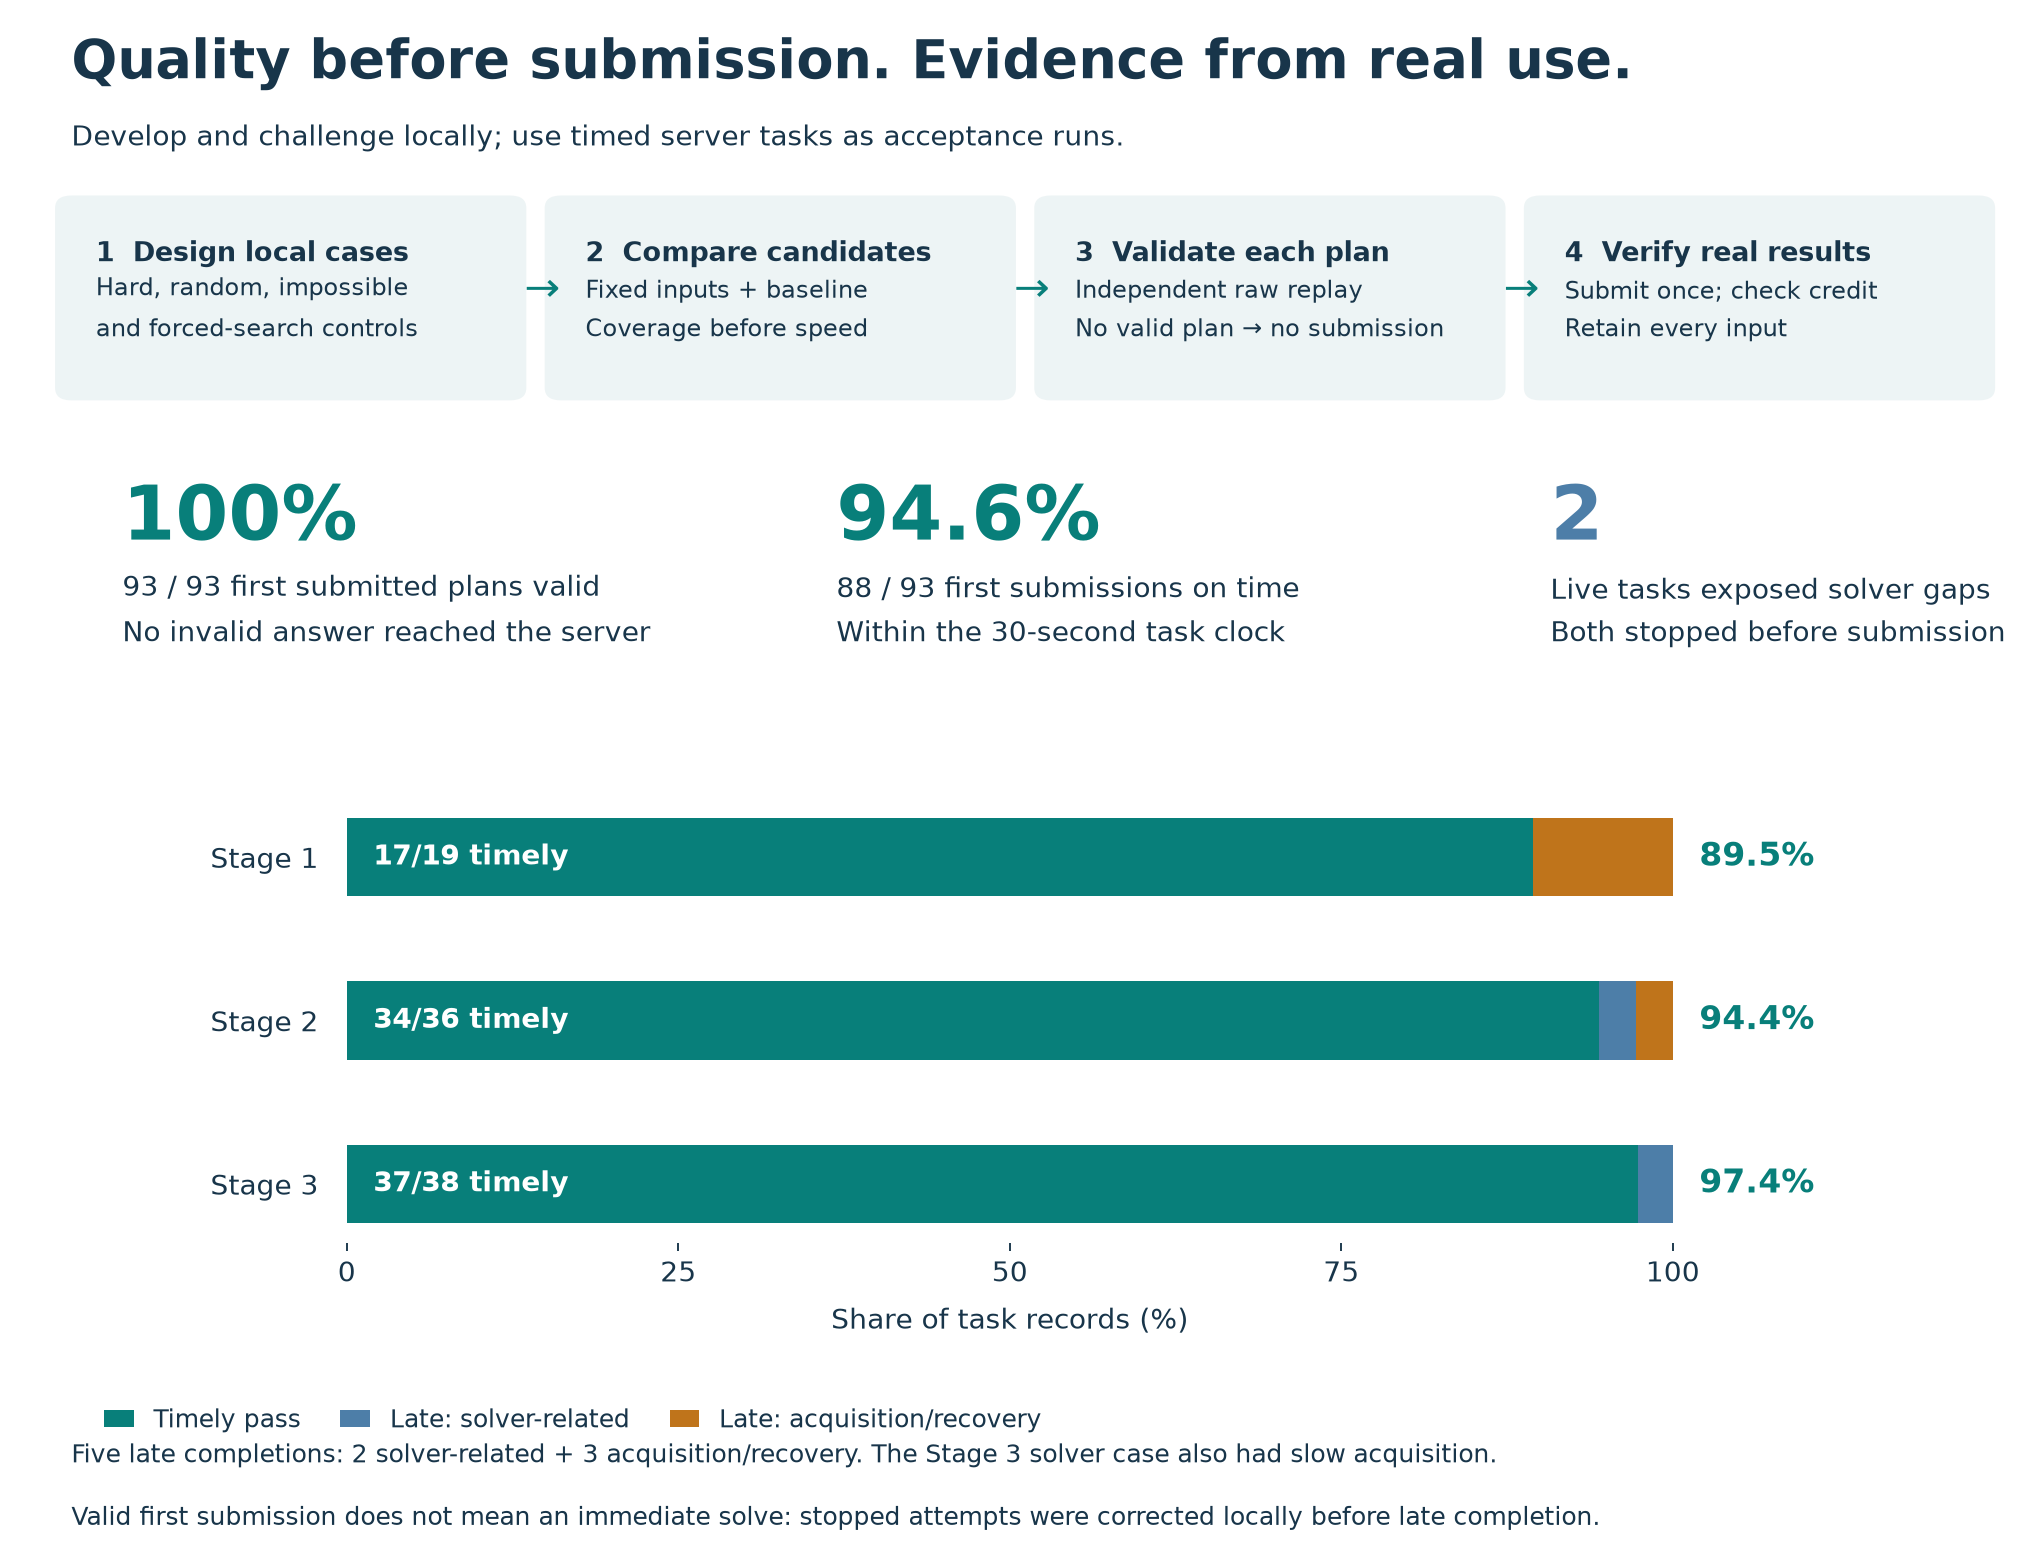
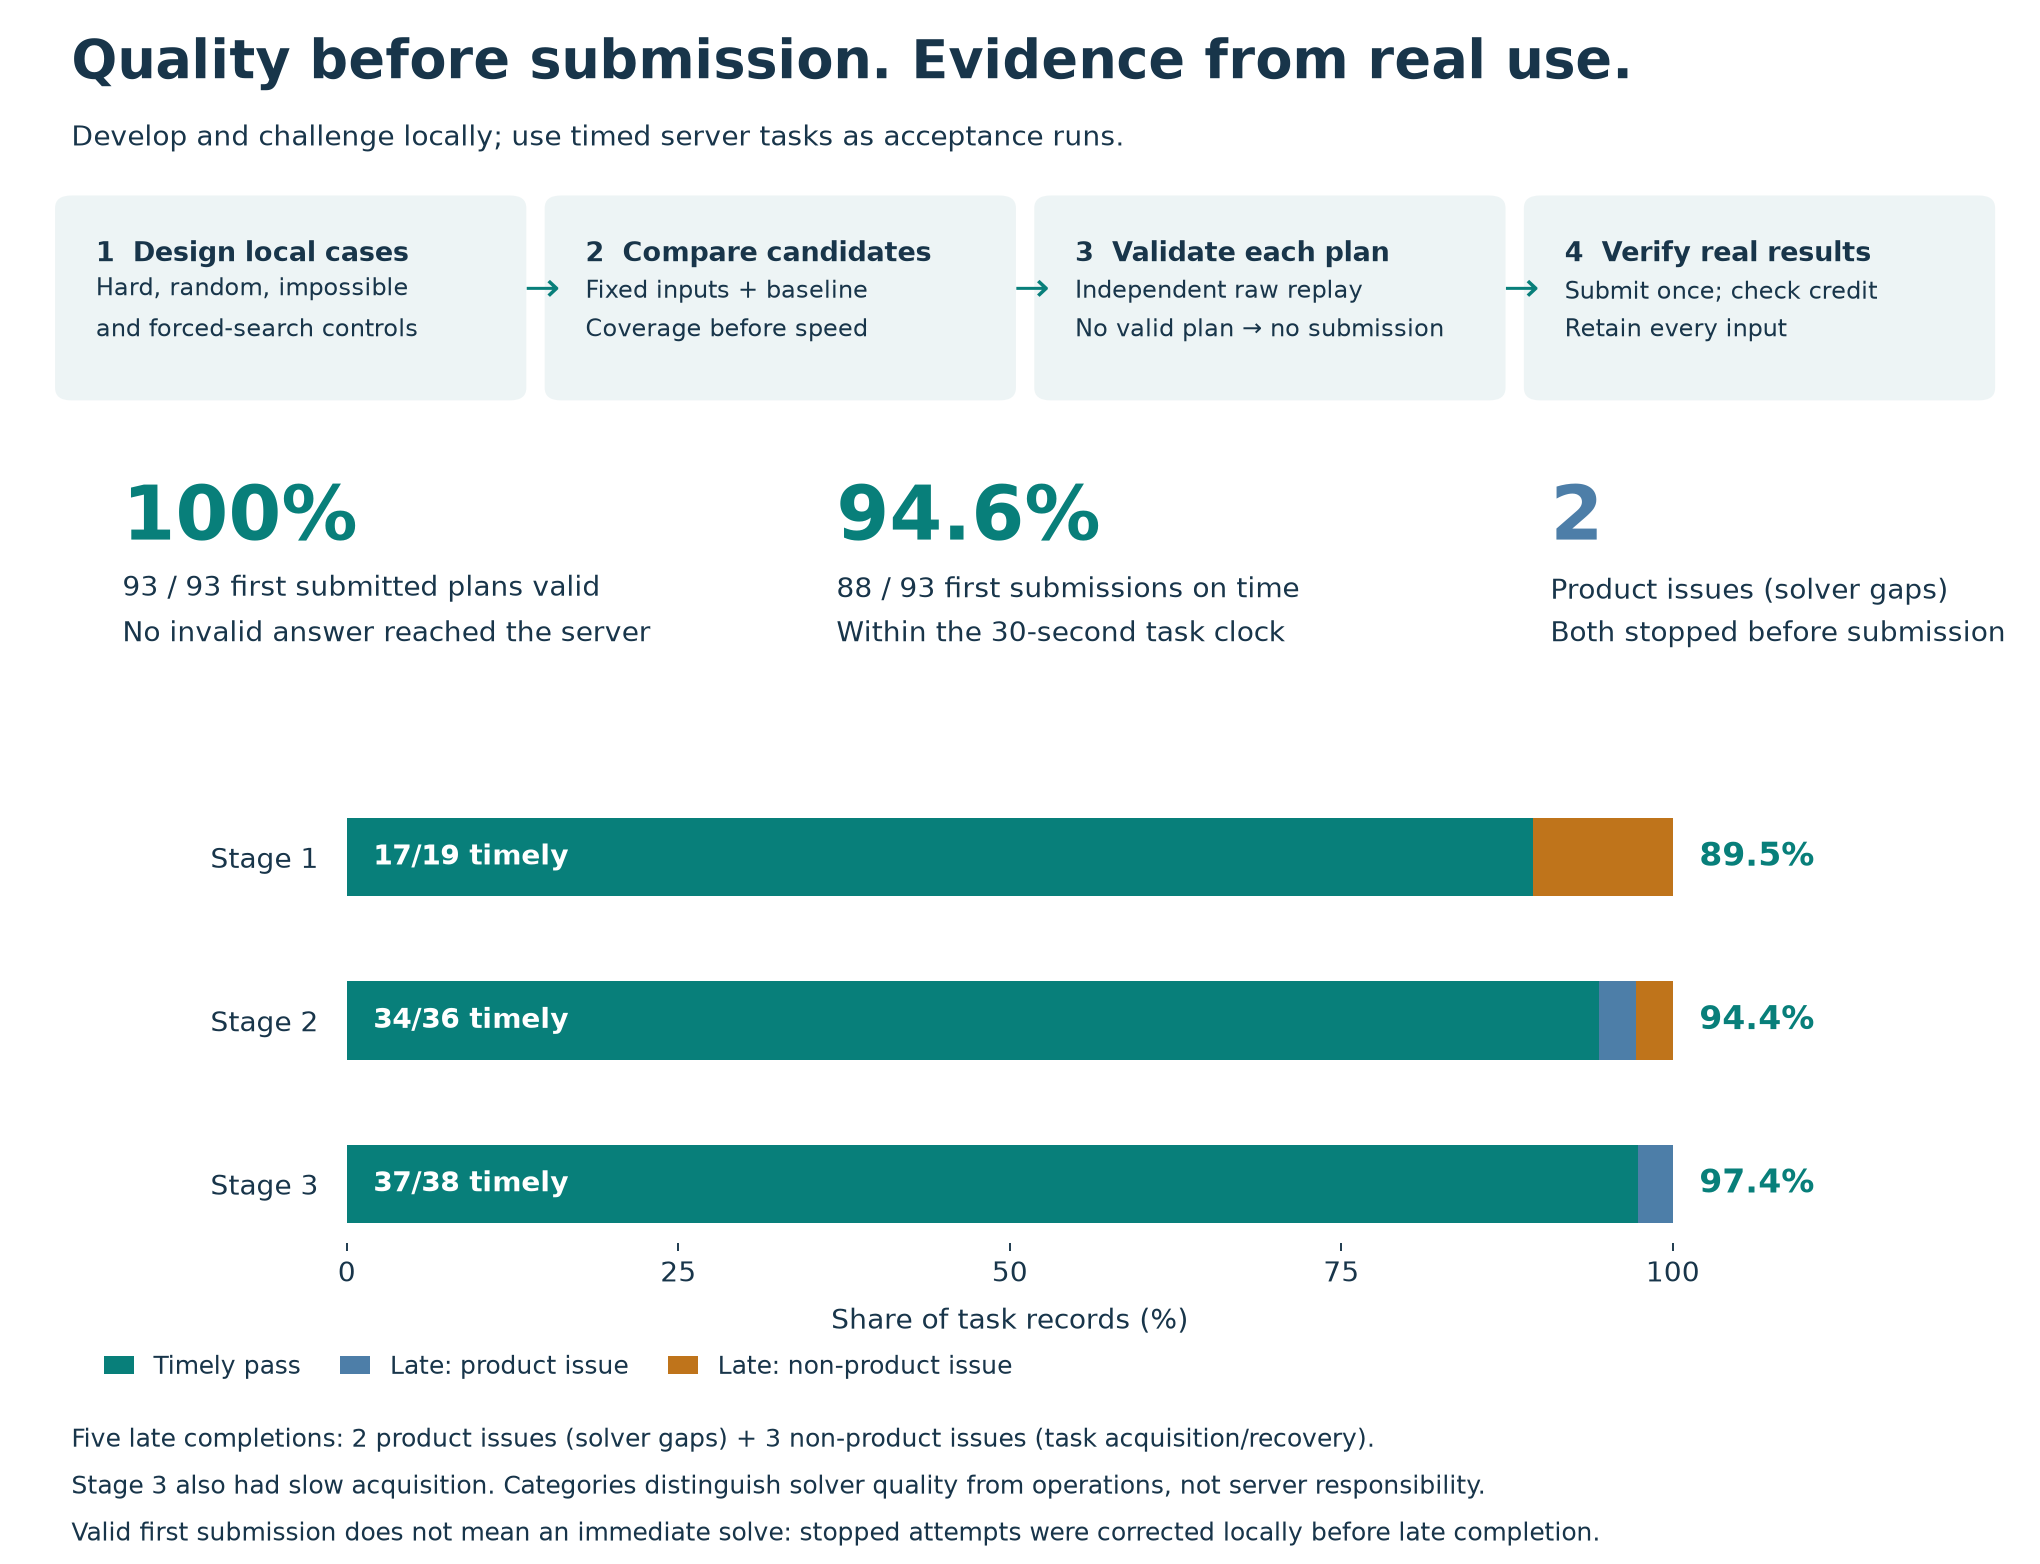
Clarify quality issue categories and neutral report voice

Changed region(s): [[0.0309, 0.8593, 0.7721, 1.0], [0.7721, 0.3683, 0.9882, 0.399]]

diff --git a/docs/reports/recruitment-delivery-report.md b/docs/reports/recruitment-delivery-report.md
@@ -5,18 +5,20 @@ One Python application handles the full game. It reads a map and resource goal,
 then returns an ordered JSON plan within the game's turn limit. Advancement also
 requires the first submission within 30 seconds of task creation.
 
-**Our quality advantage: validate locally before asking the live system to judge
-an answer.** We built hard local cases, compared changes against fixed baselines,
-and independently replayed plans before submission. Real tasks served as
-acceptance runs, not a trial-and-error loop for untested strategies. When a live
-case exposed a gap, we investigated it locally and retained it as a regression.
+**Quality advantage: validate locally before live acceptance.** Hard local cases,
+fixed-baseline comparisons and independent plan replay reduced delivery risk
+before submission. Real tasks served as acceptance runs. Any live gap was
+investigated locally and retained as a regression.
 
-![Quality before submission: local controls and replay, 93 of 93 valid first submitted plans, 88 of 93 timely passes, and two solver-related stops](recruitment-quality.png)
+![Quality before submission: local controls and replay, 93 of 93 valid first submitted plans, 88 of 93 timely passes, and two product issues that stopped the solver before submission](recruitment-quality.png)
 
 **Read the rates separately:** all 93 plans were valid on their first and only
-submission; 88 arrived on time. Two solver gaps (Stages 2 and 3) stopped before
-submission. Three other tasks were late after acquisition/recovery incidents.
-All five were eventually completed; series resets lost seven earlier credits.
+submission; 88 arrived on time. **Product issues** mean solver gaps: two tasks
+(Stages 2 and 3) stopped before submission. **Non-product issues** mean task
+acquisition or recovery incidents: three other tasks were late. These labels
+distinguish solver quality from submission operations; they do not assign blame
+to the server. All five tasks were eventually completed; series resets lost
+seven earlier credits.
 
 ```mermaid
 flowchart LR
@@ -80,7 +82,7 @@ outcomes. The cold corpus retains two slow cases omitted equally from warm timin
 | Timely solver time: median / maximum | 0.648 / 14.181 ms |
 | Timely server clock: median / maximum | 1.481 / 2.815 s |
 | Final local controls | 108: 66 winning plans, 42 impossibility proofs, zero UNKNOWN |
-| Late-task causes | **0 solver gaps; 2 acquisition/recovery incidents** |
+| Late-task issues | **0 product; 2 non-product** |
 
 **Integration lesson:** task-ID handling and timeout recovery caused two late
 tasks. The corrected runner locates an existing task before creating another
@@ -94,19 +96,20 @@ is reused with separate stone and ore inventories and resource-aware routes.
 
 **Observation → decision.** A pruning/reuse candidate improved common wins by
 6.5%, yet still missed the same six known-solvable cases. That was insufficient.
-We compared saving-aware policies, which can wait to fund a useful project,
-with relaxed-resource guidance, which uses an easier economic model to suggest
-quick plans. These policies guide search; their failure never proves impossibility.
+The comparison paired saving-aware policies, which can wait to fund a useful
+project, with relaxed-resource guidance, which uses an easier economic model
+to suggest quick plans. These policies guide search; their failure never proves
+impossibility.
 
 ![Stage 2: winning plans, impossibility proofs and unresolved cases beside total observed time for all four policy variants](recruitment-stage2-decisions.png)
 
 **Adopted:** both policies. Saving-aware guidance closed all six gaps. Relaxed
-guidance added no standalone coverage in this corpus, so we challenged it
-separately: five of seven selected economic cases met a repeated 2× speed/work
+guidance added no standalone coverage in this corpus. In a separate challenge,
+five of seven selected economic cases met a repeated 2× speed/work
 criterion. That evidence justified keeping it. Selected development challenges
 are not estimates of how often such maps occur on the server.
 
-**The live solver gap shows why counters matter:**
+**The product issue shows why counters matter:**
 
 ```mermaid
 flowchart LR
@@ -128,12 +131,12 @@ regression; the final solver uses only a time limit.
 | Timely solver time: median / maximum | 20.249 / 203.250 ms |
 | Timely server clock: median / maximum | 1.499 / 3.201 s |
 | Final local controls | 150: 126 winning plans, 24 impossibility proofs, zero UNKNOWN |
-| Late-task causes | **1 solver gap; 1 acquisition/recovery incident** |
+| Late-task issues | **1 product; 1 non-product** |
 
-**Two late tasks:** the solver gap above and an acquisition timeout with no
-solver execution. One long successful client run spent 21.923 s acquiring the
-task but only 89 ms solving it. Separate timing boundaries prevented us from
-mistaking acquisition delay for search cost.
+**Two late tasks:** the product issue above and a non-product acquisition
+timeout with no solver execution. One long successful client run spent 21.923 s
+acquiring the task but only 89 ms solving it. Separate timing boundaries
+distinguished acquisition delay from search cost.
 
 ## Stage 3 — schedule manufacturing and pay for stronger checks on demand
 
@@ -155,8 +158,8 @@ fell from 144,399 to zero. Strong pruning remained available for fallback.
 
 **Decision B: longer initial probes.** The live miss consumed 13.173 s acquiring
 the task, then exhausted its 11.302 s solver allowance. A local trace found a
-useful policy truncated at 192 decisions; allowing 256 finished it. We compared
-192 against 512 with the interval fixed at 512 and later probes at 32.
+useful policy truncated at 192 decisions; allowing 256 finished it. A comparison
+tested 192 against 512 with the interval fixed at 512 and later probes at 32.
 
 Across 1,842 runs, initial 512 raised reliability from 306/307 to 307/307 and
 reduced common winning time 32.1%. The failed map changed from three 30-second
@@ -175,7 +178,7 @@ misses to three wins in 0.457–0.486 s. Two long-horizon controls slowed by
 | Timely solver time: median / maximum | 127.156 / 4,232.246 ms |
 | Timely server clock: median / maximum | 1.799 / 8.956 s |
 | Final local controls | 307 configurations: 273 winning plans, 34 impossibility proofs, zero UNKNOWN |
-| Late-task causes | **1 solver gap**, with acquisition delay also contributing |
+| Late-task issues | **1 product; 0 non-product**; acquisition delay also contributed to the product case |
 
 After correcting the solver gap, all 18 fresh tasks counted, at 1.218–3.537 s
 server time. The old task was completed late before the series restarted.

diff --git a/.github/spec-driven-delivery/implementation-plan.md b/.github/spec-driven-delivery/implementation-plan.md
@@ -9,7 +9,7 @@ report is an implementation deliverable, not a prerequisite for concluding desig
 
 | Field | Value |
 | --- | --- |
-| State | `LOCAL_DELIVERY_READY` — client-readable code reviewed and package verified |
+| State | `LOCAL_DELIVERY_READY` — quality terminology reviewed and package verified |
 | Active tasks | None |
 | Next ready task | None; local delivery complete |
 | Active blocker | `None` |
@@ -255,7 +255,7 @@ alter this implementation content; any code change repeats the audit.
 | Portable installation | Fresh extracted ZIP installs locked dependencies, runs115portable tests and allthreeoffline smokes, with research/.env absent and imports resolving inside the copy. |
 | Report/evidence | One consolidated client report with three stage summaries, graphs,26:17:20.657ended-turn stage audit, issue links and full per-record migration results reconciled. Current report revision is excluded; human labor remains unavailable. The earlier25:07:39.349audit remains a labeled historical snapshot. |
 | Source preservation | Research, receipts and regression inputs remain unchanged. Authorized client/docs/configuration changes have current source bindings; old hashes are explicitly historical. Frozen whiteboard remains unchanged. |
-| Final package | PASS:74allowlisted files,76ZIP entries,1,982,274bytes; all manifest/source/checksum/CRC entries valid; final runtime/test/configuration bytes equal the clean tested copy; no standalone stage reports, credentials, research, Git or caches; helper executable. |
+| Final package | PASS:74allowlisted files,76ZIP entries,1,995,726bytes; all manifest/source/checksum/CRC entries valid; final runtime/test/configuration bytes equal the clean tested copy; no standalone stage reports, credentials, research, Git or caches; helper executable. |
 | Remote lifecycle | No publication, PR creation, email, merge, target verification or post-merge cleanup is authorized/performed. This does not block the requested local package. |
 
 Actual checks are bound in [migration-full.json](../../docs/reports/evidence/migration-full.json).
@@ -286,7 +286,7 @@ receive the exact corrected candidate. Remaining finding disposition: fixed.
 
 
 Final handoff verification passed after both final reconciliation approvals.
[2 lines of base64/hex data omitted]
 The archive includes the complete658-record evidence and corrected provenance;
 its31runtime/client/test files are identical to the fresh-install tested copy.
 The later report refinement changes only the builder file allowlist; its new
@@ -475,3 +475,34 @@ CurrentZIP SHA256: `373064c70bec513115e039d6881205cfc1ddfb4d222d1fab16a2b3262d79
 
 All requested local work is complete. Pre-existing manifest/experience/research
 changes remain untouched. No server task, submission, email, push or merge.
+
+
+## Quality terminology refinement
+
+T04/C1-11 continuation requested by the owner: use **product issues** for the
+two solver gaps and **non-product issues** for the three task-acquisition/recovery
+incidents. The report, quality chart and stage tables define the classification;
+Stage3's contributing acquisition delay stays explicit. Incident measurements,
+93valid first submitted plans and88timely submissions remain unchanged. Neutral
+wording removes “our”, “we” and “us” from the report; README's single “our” is
+also removed. Historical incident/source provenance is preserved.
+
+Reviewer A: APPROVE focused update. Findings: None. New dangerous assumptions: None.
+Reviewer B: APPROVE. Findings: None. Dangerous assumptions: None introduced.
+
+Focused verification passes: rendered figure, source/count/asset hashes, neutral
+voice, local links and the74-file/76-entry archive's manifest, checksums, CRC,
+exclusions and executable helper. All32Python sources and the frozen whiteboard
+remain identical; prior658regressions/115tests/type checks apply without reruns.
+No new benchmark or game operation was performed.
+
[2 lines of base64/hex data omitted]
+
+| Finding | Concrete example | Solution | Disposition |
+| --- | --- | --- | --- |
+| None | — | — | NONE |
+
+| Assumption | Dangerous-assumption category | Evidence / validation state | Impact if false | Handling |
+| --- | --- | --- | --- | --- |
+| None newly introduced | None | Issue classification is explicitly defined; evidence unchanged | None added | NONE |

diff --git a/README.md b/README.md
@@ -176,7 +176,7 @@ Capability **interfaces** describe abilities: `Buildable` permits construction; 
 
 Extractors must match the node's `resource_allow`; other structures cannot occupy
 resource nodes. Construction uses an empty tile next to an existing structure;
-our supported model uses up/down/left/right adjacency. A legal transfer needs
+the supported model uses up/down/left/right adjacency. A legal transfer needs
 road tiles between storage endpoints: two adjacent storage buildings alone are
 not a route. Mining income must reach the base before it can fund construction.
 
